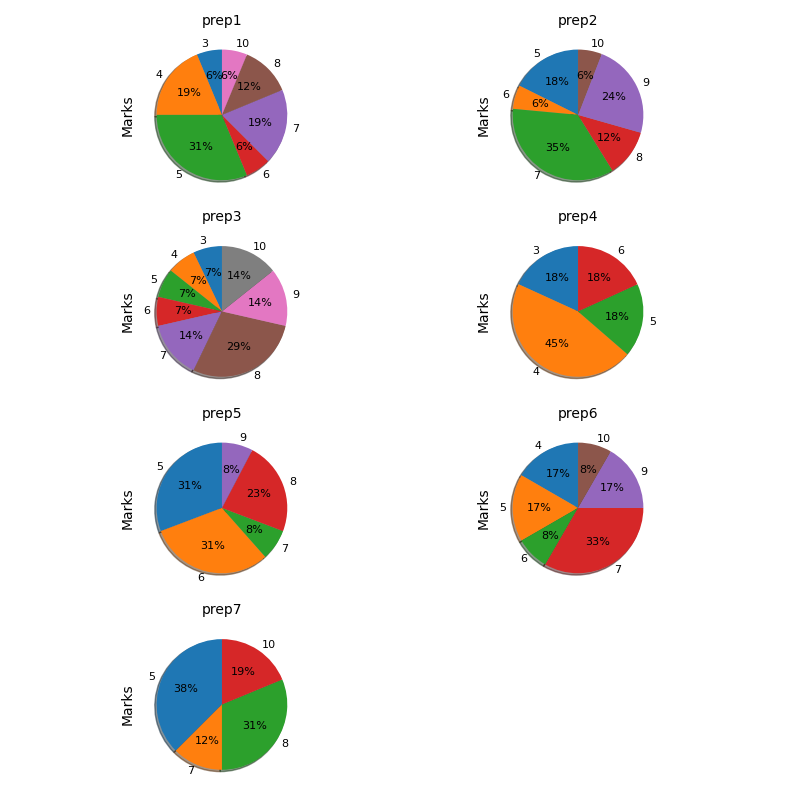
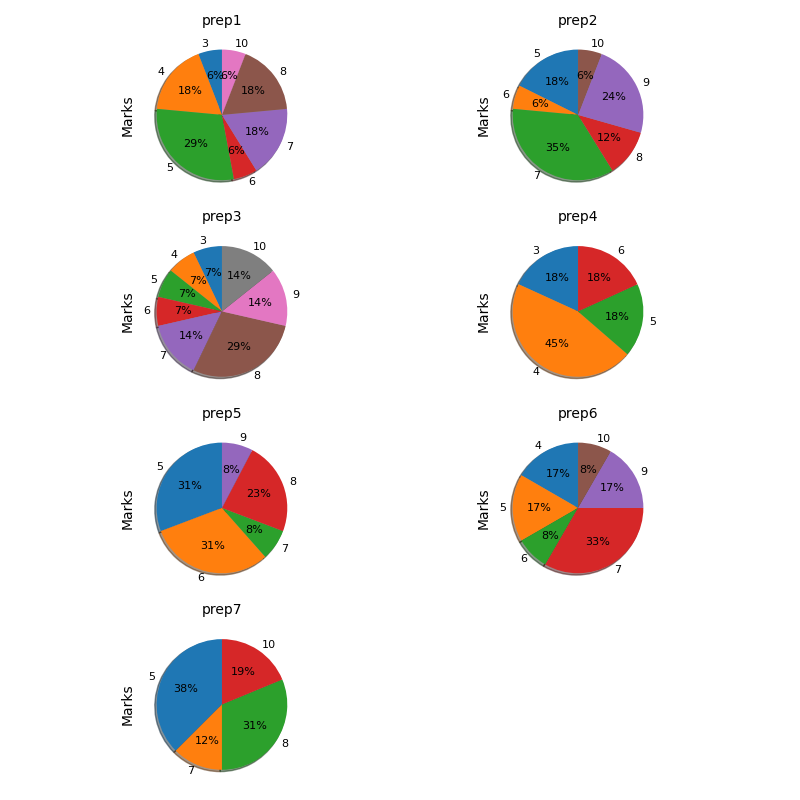
Pandas

Changed region(s): [[0.1875, 0.0625, 0.375, 0.25], [0.2812, 0.0312, 0.3125, 0.0625]]

diff --git a/Lab_1_MatplotLib/Episode3/Episode3.py b/Lab_1_MatplotLib/Episode3/Episode3.py
@@ -3,21 +3,20 @@ import matplotlib.pyplot as plt
 
 fig1, axes = plt.subplots(nrows = 4, ncols = 2)
 
-data = pd.read_csv('students.csv', sep='[;,|_]', engine='python')
+data = pd.read_csv('students.csv', sep='[;,|_]', engine='python', header=None)
 
 data.columns = ['Preps', 'Groups', 'Marks']
 
 j, k = 0, 0
 for i in data['Preps'].unique():
-    new_data = data.loc[data.Preps.isin([i])]['Marks'].value_counts().sort_index().to_frame()
-    print(new_data)
+    new_data = data.loc[data['Preps'] == i]['Marks'].value_counts().sort_index()
     new_data.plot.pie(y='Marks', figsize=(8, 8), ax=axes[j, k], autopct='%1.0f%%', shadow=True,
                       startangle=90, legend=False, fontsize=8, title=i)
     axes[j, k].title.set_size(10)
     if not k:
-        k+=1
+        k += 1
     else:
-        j +=1
+        j += 1
         k = 0
 
 fig1.delaxes(axes[3][1])
